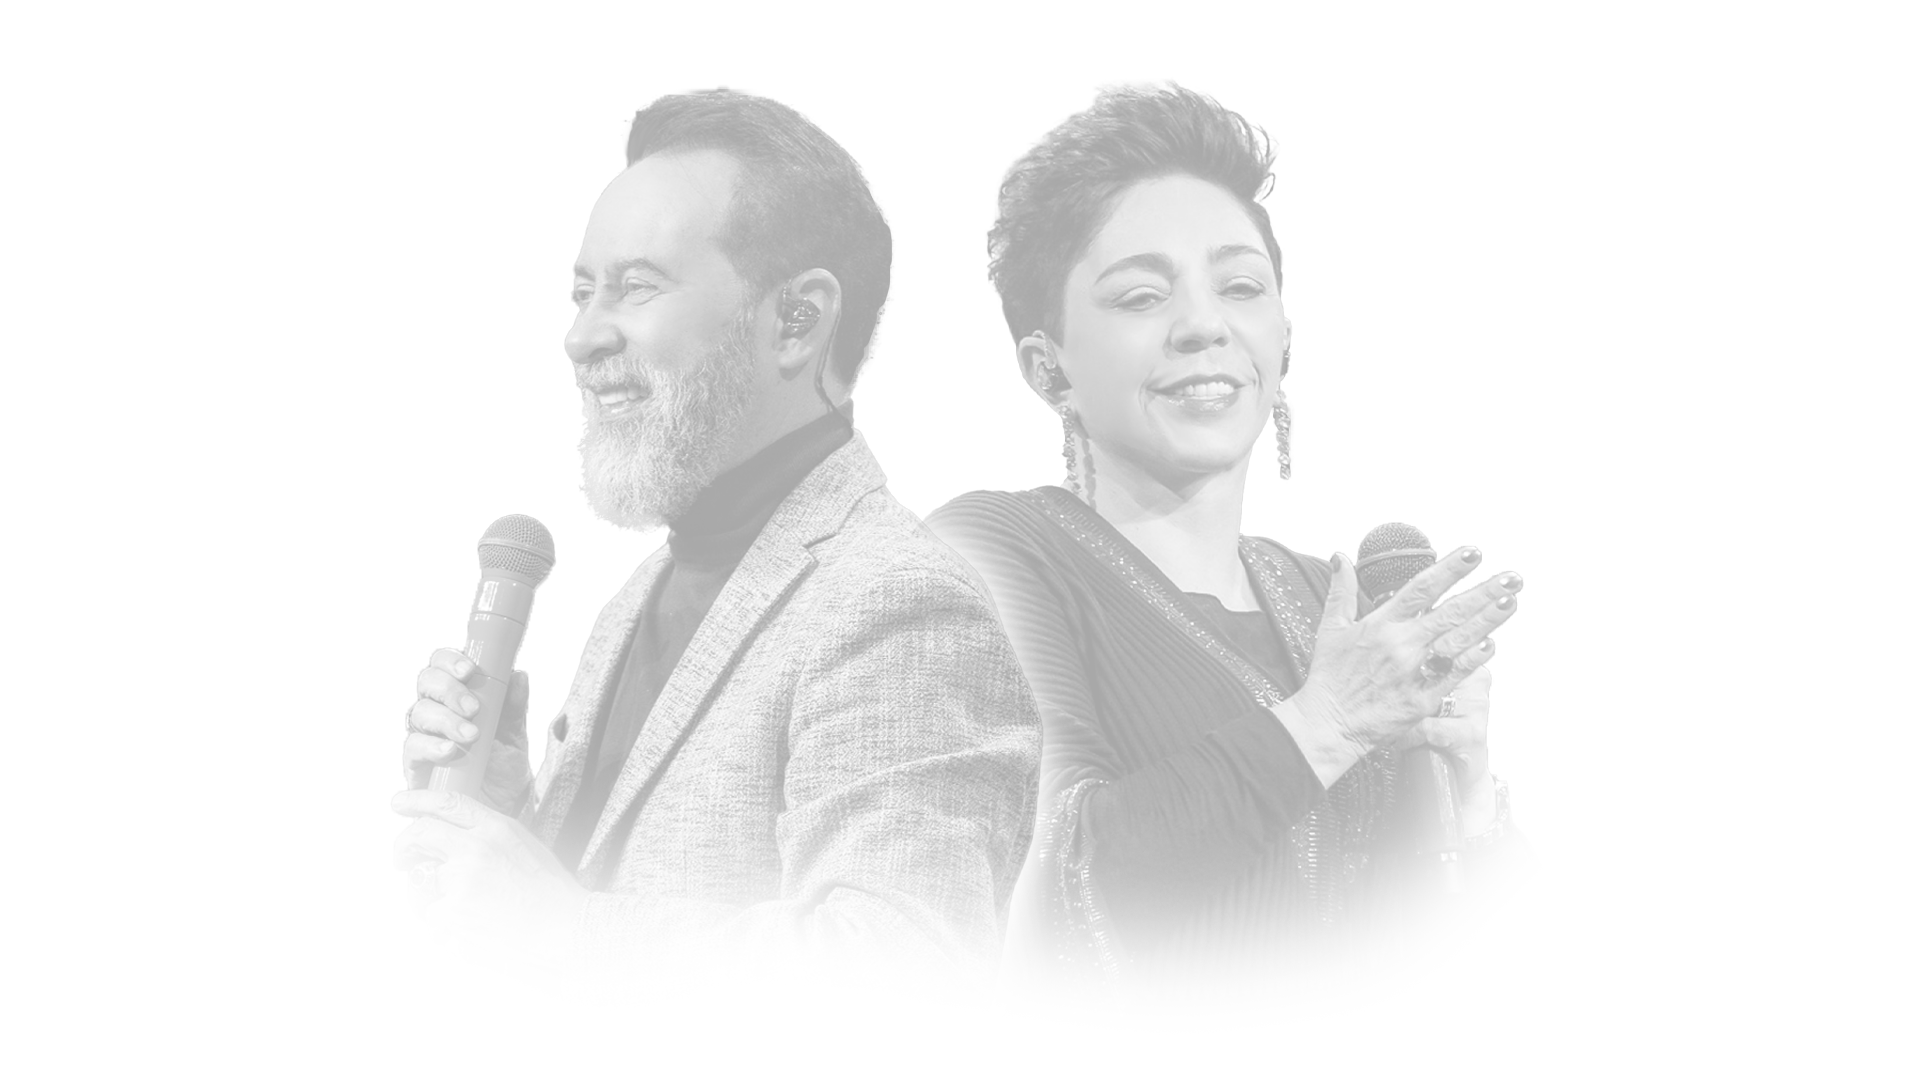
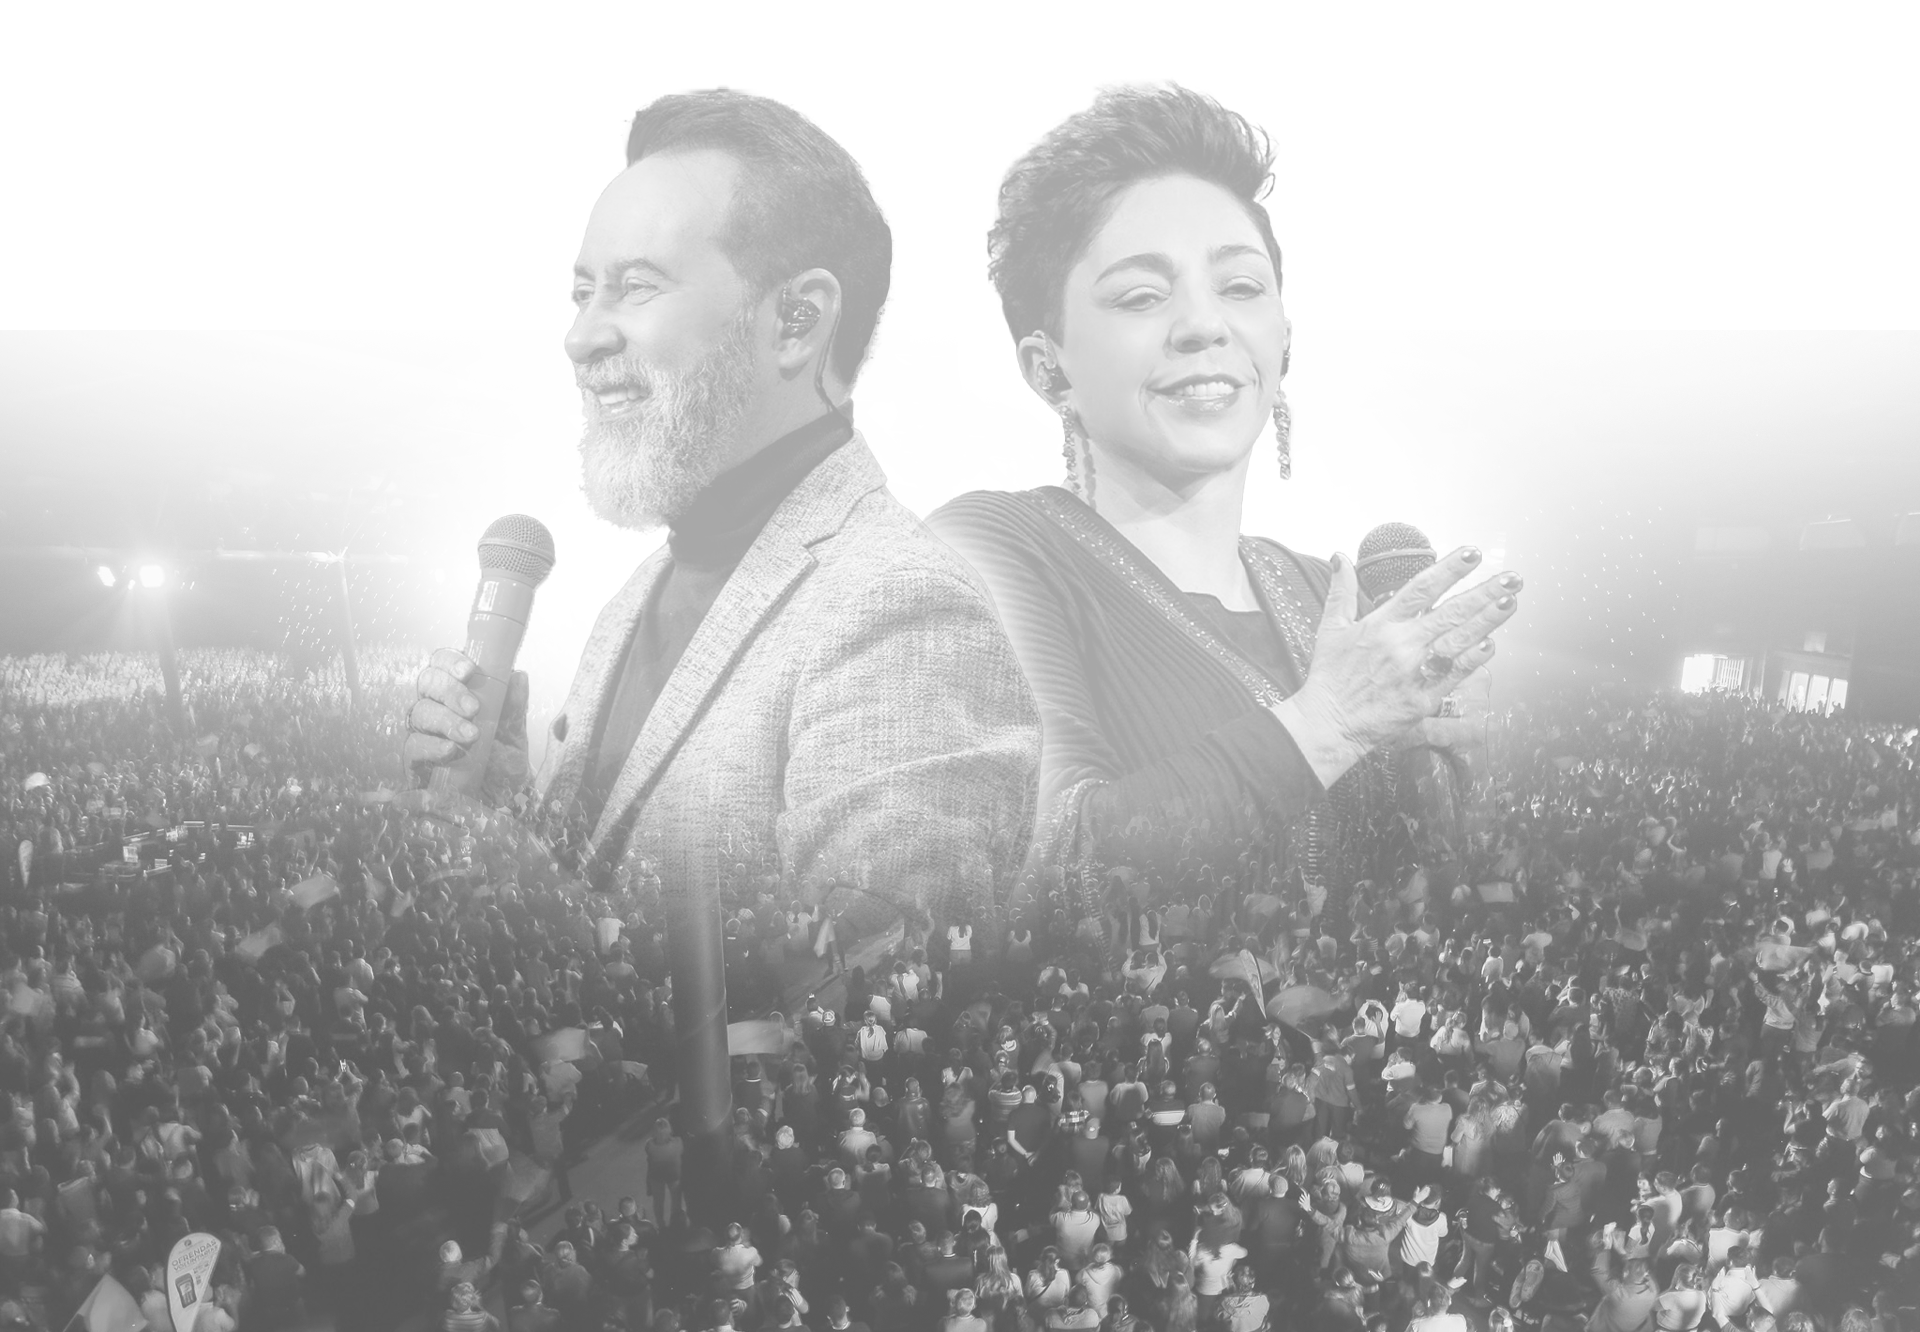
guardando imagen nueva

diff --git a/index.html b/index.html
@@ -130,19 +130,9 @@
   <div id="mega-container" class="mega-container">
     <div class="mega-menu" data-mega-panel="reuniones">
       <div class="mega-col">
-        <span class="mega-col-title">Horarios</span>
-        <a href="#reuniones" data-view="reuniones">Viernes · 7:00 p.m.</a>
-        <a href="#reuniones" data-view="reuniones">Domingo · 8:00 a.m.</a>
-        <a href="#reuniones" data-view="reuniones">Domingo · 10:30 a.m.</a>
-      </div>
-      <div class="mega-col">
         <span class="mega-col-title">Eventos</span>
         <a href="#reuniones" data-view="reuniones">Próximos eventos</a>
         <a href="#reuniones" data-view="reuniones">Eventos anteriores</a>
-      </div>
-      <div class="mega-feature">
-        <span class="mega-col-title">Destacado</span>
-        <p>Tres horarios cada semana, para que siempre haya un lugar para ti.</p>
       </div>
     </div>
 
@@ -150,15 +140,7 @@
       <div class="mega-col">
         <span class="mega-col-title">Nosotros</span>
         <a href="#nosotros" data-view="nosotros">Nuestra historia</a>
-        <a href="#nosotros" data-view="nosotros">Liderazgo</a>
-      </div>
-      <div class="mega-col">
-        <span class="mega-col-title">Más</span>
-        <a href="#nosotros" data-view="nosotros">Visión y valores</a>
-      </div>
-      <div class="mega-feature">
-        <span class="mega-col-title">Destacado</span>
-        <p>Contenido disponible muy pronto.</p>
+        <a href="#nosotros" data-view="nosotros">Visión y misión</a>
       </div>
     </div>
 
@@ -167,10 +149,6 @@
         <span class="mega-col-title">Contacto</span>
         <a href="#contacto" data-view="contacto">Escríbenos</a>
         <a href="#contacto" data-view="contacto">Redes sociales</a>
-      </div>
-      <div class="mega-feature">
-        <span class="mega-col-title">Destacado</span>
-        <p>Formulario de contacto disponible muy pronto.</p>
       </div>
     </div>
   </div>
@@ -189,7 +167,7 @@
             muted
             loop
             playsinline
-            preload="auto"
+            preload="metadata"
             aria-hidden="true"></video>
         </div>
 
@@ -231,8 +209,6 @@
     <div class="view" id="view-reuniones" data-view-id="reuniones">
       <div class="page-inner">
         <p class="eyebrow">Reuniones</p>
-        <h1>Un lugar para<br>cada <em>semana.</em></h1>
-        <p class="lede">Tres horarios, la misma bienvenida.</p>
         <div class="meta">
           <div><span>Viernes</span><strong>7:00 p.m.</strong></div>
           <div><span>Domingo</span><strong>8:00 a.m.</strong></div>
@@ -263,7 +239,6 @@
       <div class="page-inner">
         <p class="eyebrow">Nosotros</p>
         <h1>Nuestra <em>historia.</em></h1>
-        <p class="lede">Próximamente.</p>
       </div>
     </div>
 
@@ -271,7 +246,6 @@
       <div class="page-inner">
         <p class="eyebrow">Contacto</p>
         <h1>Hablemos.</h1>
-        <p class="lede">Próximamente.</p>
       </div>
     </div>
   </main>
@@ -284,7 +258,7 @@
 <button id="replay">Repetir intro</button>
 
 <!-- ========= EL VELO CON EL HUECO EN FORMA DE LOGO ========= -->
-<svg id="veil" xmlns="http://www.w3.org/2000/svg" aria-hidden="true">
+<svg id="veil" xmlns="http://www.w3.org/2000/svg" xmlns:xlink="http://www.w3.org/1999/xlink" aria-hidden="true">
   <defs>
     <!-- El logo se define UNA sola vez. Se usa dos veces abajo. -->
     <g id="logo-shapes">
@@ -340,7 +314,7 @@
       <!-- blanco = el velo SE VE -->
       <rect x="-2000" y="-2000" width="20000" height="20000" fill="#fff"/>
       <!-- JS baja este fill de #fff (sin hueco) a #000 (hueco total) -->
-      <use id="hole-use" href="#mark-fill" fill="#fff"/>
+      <use id="hole-use" href="#mark-fill" xlink:href="#mark-fill" fill="#fff"/>
     </mask>
   </defs>
 
@@ -349,11 +323,11 @@
         fill="#100D0C" mask="url(#logo-hole)"/>
 
   <!-- capa 2: el CÍRCULO pintado sólido, encima. JS lo desvanece -> se abre. -->
-  <use id="solid-use" href="#mark"/>
+  <use id="solid-use" href="#mark" xlink:href="#mark"/>
 
   <!-- capa 3: texto (wordmark + tagline). Solo se desvanece, nunca es ventana. -->
-  <use id="text-use" href="#wordmark"/>
-  <use id="text-use-2" href="#tagline"/>
+  <use id="text-use" href="#wordmark" xlink:href="#wordmark"/>
+  <use id="text-use-2" href="#tagline" xlink:href="#tagline"/>
 </svg>
 
 <p id="hint">Desliza para entrar</p>

diff --git a/site.js b/site.js
@@ -206,6 +206,14 @@
   let shown = 0;
   let rafId = null;
   let lastTouchY = null;
+  // Momento (performance.now()) en que target llegó al final por
+  // última vez. Mientras esté dentro de PAUSE_MS de ese instante,
+  // seguimos "atrapando" el scroll hacia abajo aunque target ya no
+  // pueda subir más: eso da la sensación de pausa justo cuando
+  // aparecen los horarios completos, antes de soltar la página
+  // hacia la sección de eventos. Al subir no hay pausa, sube directo.
+  let reachedEndAt = null;
+  const PAUSE_MS = 550;
 
   const clamp = (v, a, b) => Math.min(Math.max(v, a), b);
 
@@ -249,6 +257,11 @@
   function addDelta(fraction) {
     const before = target;
     target = clamp(target + fraction, 0, MAX_PROGRESS);
+    if (target >= MAX_PROGRESS && before < MAX_PROGRESS) {
+      reachedEndAt = performance.now();
+    } else if (target < MAX_PROGRESS) {
+      reachedEndAt = null;
+    }
     if (target !== before && rafId === null) {
       rafId = requestAnimationFrame(render);
     }
@@ -256,17 +269,21 @@
 
   // Mientras el recorrido no ha terminado (target < 2) y el usuario
   // baja el mouse, capturamos el scroll (no se mueve la página, sube
-  // o sale el panel). Si ya terminó, soltamos el scroll. Si el
-  // usuario sube el mouse antes del final, lo dejamos "regresar"
-  // antes de scrollear la página hacia arriba. Se compara contra
-  // "target" (a dónde vamos), no "shown" (lo que ya se ve), para que
-  // no se corte la captura mientras el suavizado todavía va llegando.
+  // o sale el panel). Si ya terminó, soltamos el scroll, PERO si
+  // acabamos de llegar al final hace menos de PAUSE_MS, lo seguimos
+  // capturando (sin mover nada) para que se sienta la pausa antes de
+  // soltar hacia la página. Al subir no hay pausa: "target > 0" ya
+  // deja reaccionar de una.
+  function withinPause() {
+    return reachedEndAt !== null && (performance.now() - reachedEndAt) < PAUSE_MS;
+  }
+
   heroReveal.addEventListener('wheel', (e) => {
     const goingDown = e.deltaY > 0;
-    const shouldCapture = (goingDown && target < MAX_PROGRESS) || (!goingDown && target > 0);
+    const shouldCapture = (goingDown && (target < MAX_PROGRESS || withinPause())) || (!goingDown && target > 0);
     if (shouldCapture) {
       e.preventDefault();
-      addDelta(e.deltaY / WHEEL_TO_END);
+      if (target < MAX_PROGRESS || !goingDown) addDelta(e.deltaY / WHEEL_TO_END);
     }
   }, { passive: false });
 
@@ -279,10 +296,10 @@
     const y = e.touches[0].clientY;
     const delta = lastTouchY - y; // positivo = dedo sube = "baja" el contenido
     const goingDown = delta > 0;
-    const shouldCapture = (goingDown && target < MAX_PROGRESS) || (!goingDown && target > 0);
+    const shouldCapture = (goingDown && (target < MAX_PROGRESS || withinPause())) || (!goingDown && target > 0);
     if (shouldCapture) {
       e.preventDefault();
-      addDelta(delta / TOUCH_TO_END);
+      if (target < MAX_PROGRESS || !goingDown) addDelta(delta / TOUCH_TO_END);
     }
     lastTouchY = y;
   }, { passive: false });

diff --git a/style.css b/style.css
@@ -401,7 +401,7 @@ body.hero-at-end .menu-toggle{
 .hero-photo img{
   width: 100%;
   height: 100%;
-  object-fit: contain;
+  object-fit: cover;
   object-position: center 65%;
 }
 
